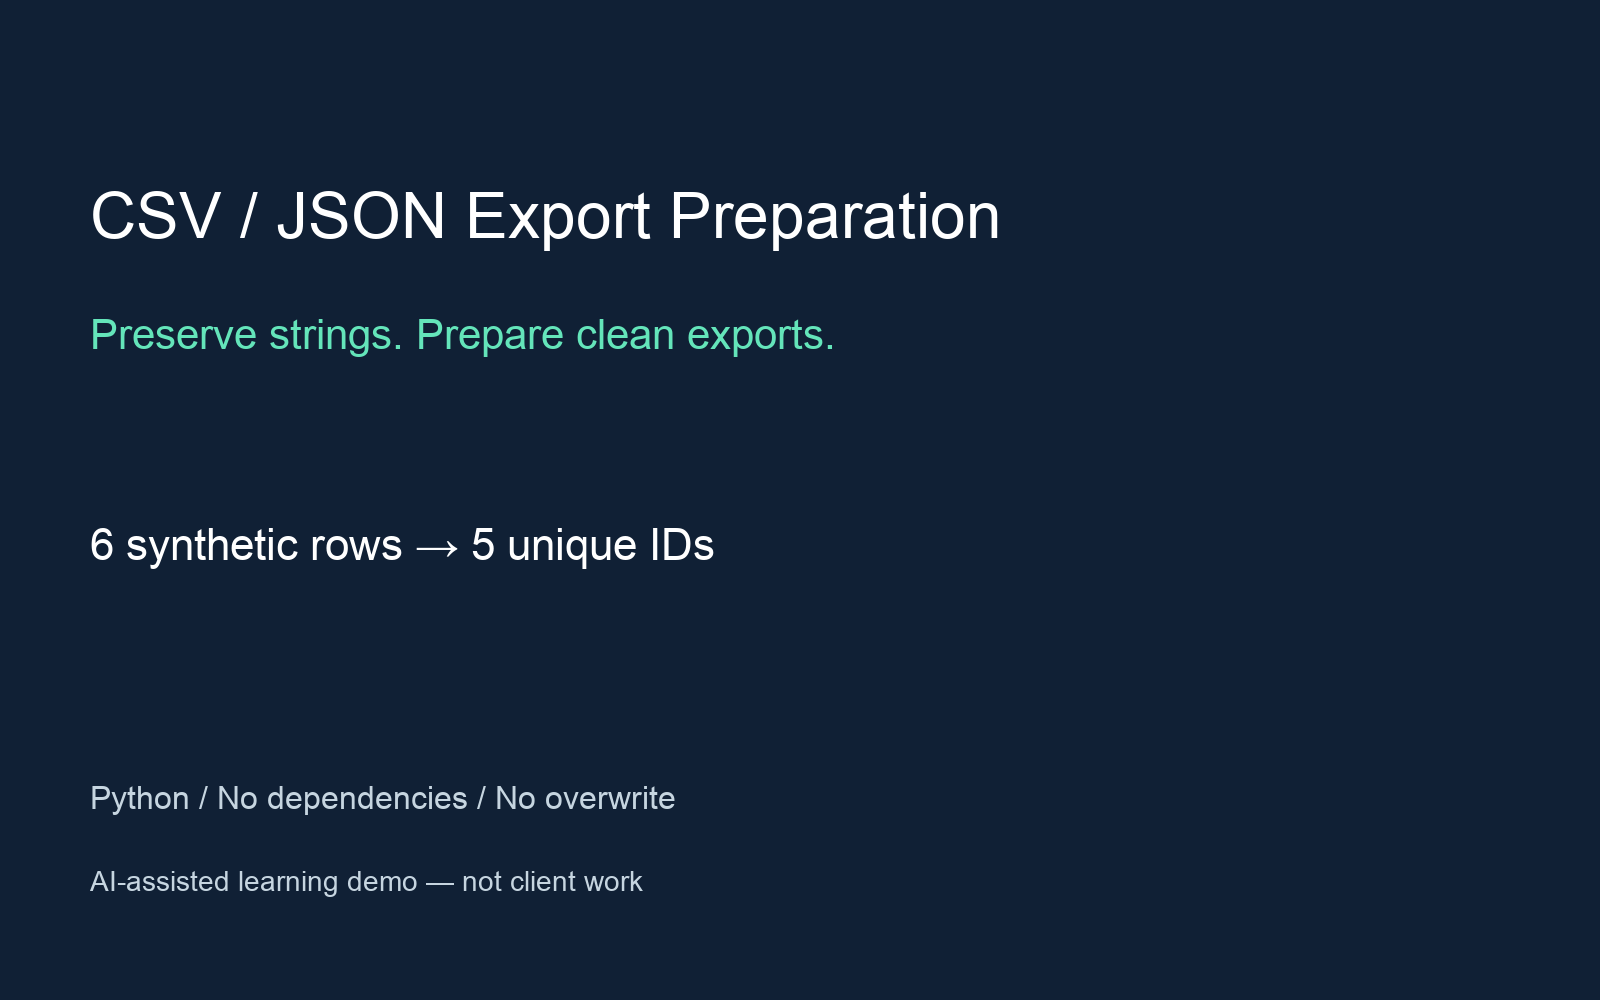
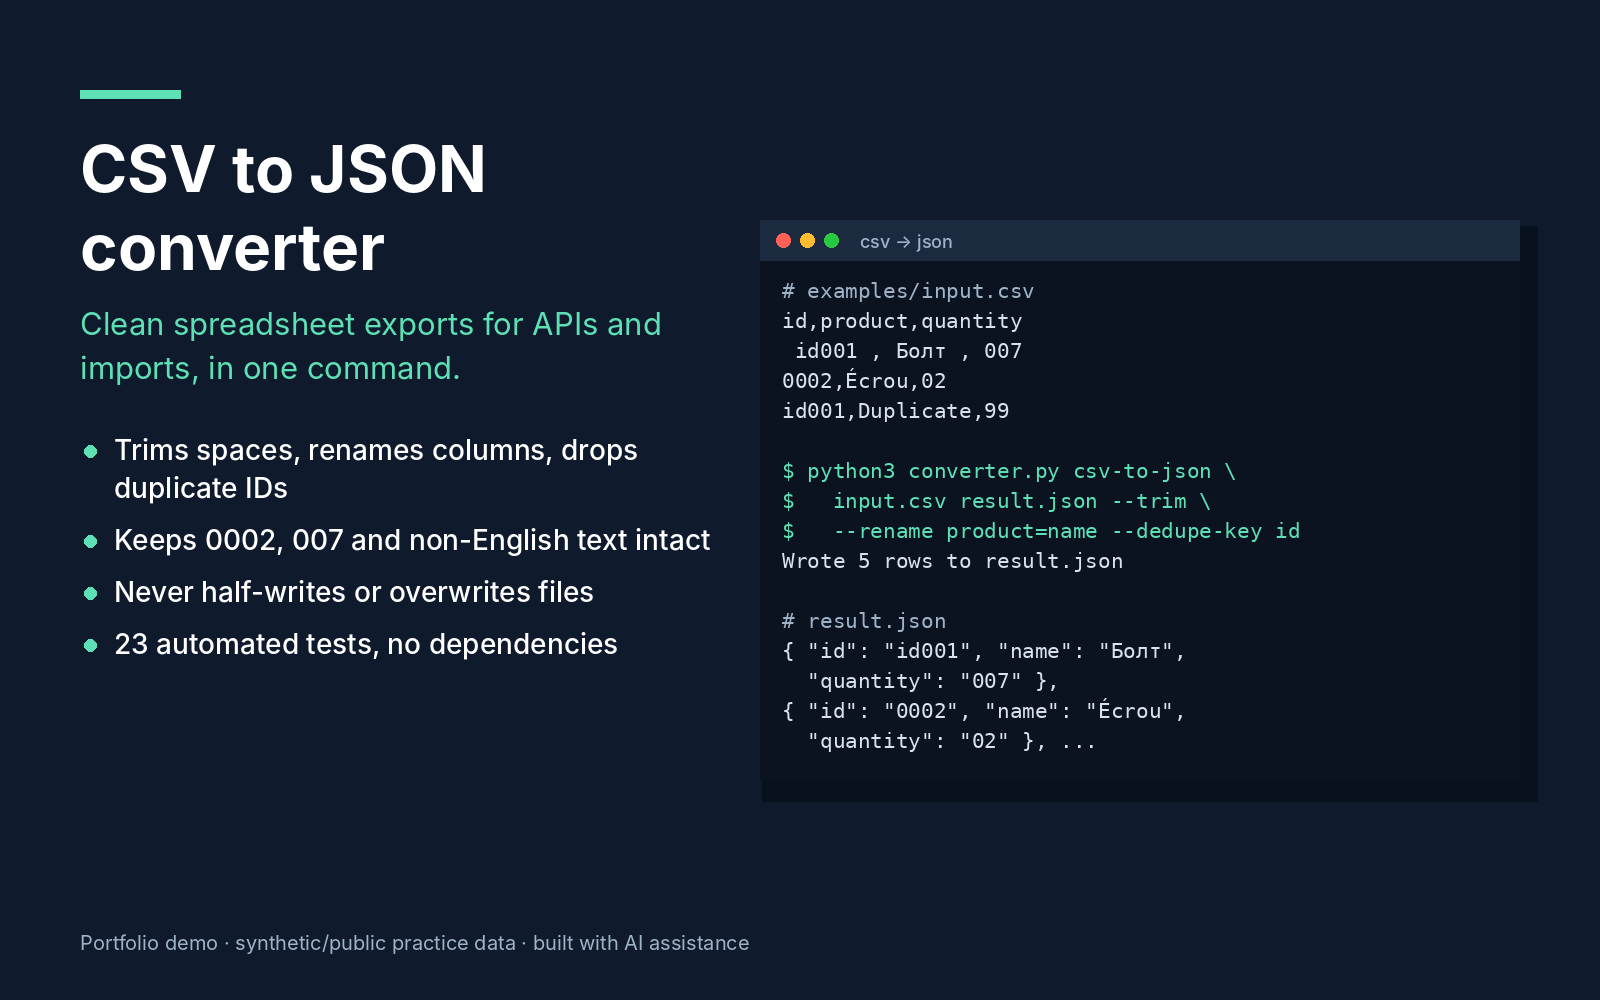
Client-first README and cover: example up front, technical rules kept in a details block
Claude-Session: https://claude.ai/code/session_01RBh2FWbAKLhXtWCpcTRA3a

diff --git a/README.md b/README.md
@@ -1,19 +1,55 @@
-![Project cover](cover.png)
+![CSV ⇄ JSON converter](cover.png)
 
-# CSV ↔ flat JSON — learning demo
+# CSV ⇄ JSON converter for clean data exports
 
+Turns a messy spreadsheet export into clean JSON for an API or another tool — and back to CSV. In one command it trims stray spaces, renames columns and drops duplicate IDs **without** breaking leading zeros (`0002`), quantities like `007` or non-English text.
 
+## Example
 
-An original learning demonstration for a future Python CSV/JSON service portfolio. Synthetic data, not a client case study. One CLI script using only Python's standard library. No dependencies, APIs, network, or accounts. Verified on Python 3.12; other versions have not been separately tested.
+`examples/input.csv` — six messy rows (spaces around values, a duplicate ID, Cyrillic and French text):
 
-Run from the project directory, choosing unused output filenames:
+```csv
+id,product,quantity
+ id001 , Болт , 007 
+0002,Écrou,02
+0003,  ,0
+0004,"Nut, steel",12
+0005,Шайба,003
+id001,Duplicate ignored,99
+```
 
 ```sh
 python3 converter.py csv-to-json examples/input.csv result.json --trim --rename product=name --dedupe-key id
-python3 converter.py json-to-csv result.json result.csv
-python3 -m unittest discover -v
 ```
- `examples/expected.json` and `examples/expected.csv` are ready-made results. With `--trim`, six source rows become five unique IDs. IDs (including `id001` and `0002`), Cyrillic, `Écrou`, an empty product name, and leading-zero quantities remain strings.
+
+`result.json` — five clean records, IDs and quantities kept exactly as text:
+
+```json
+[
+  { "id": "id001", "name": "Болт", "quantity": "007" },
+  { "id": "0002", "name": "Écrou", "quantity": "02" },
+  { "id": "0003", "name": "", "quantity": "0" },
+  { "id": "0004", "name": "Nut, steel", "quantity": "12" },
+  { "id": "0005", "name": "Шайба", "quantity": "003" }
+]
+```
+
+And back: `python3 converter.py json-to-csv result.json result.csv` (see `examples/expected.csv`).
+
+## Why it is safe to use on real exports
+
+- **Nothing is guessed:** every value stays text, so `0002` never becomes `2` and `007` never becomes `7`.
+- **Explicit options only:** trimming, renaming and de-duplication happen only when you ask for them.
+- **Fails loudly, never half-way:** malformed rows, duplicate columns or a file over 1 MiB stop with a clear `error:` message before anything is written; an existing output file is never overwritten.
+- **No dependencies:** Python 3 standard library only.
+- **23 automated tests**, including failure injection (disk errors, competing writers). Run them with `python3 -m unittest discover -v`.
+
+## Need something like this?
+
+The same approach fits recurring jobs such as cleaning CRM or e-commerce exports, preparing data for an API import, or merging several CSV files into one consistent format.
+
+<details>
+<summary>Detailed rules and limits (for developers)</summary>
 
 Rules, in both directions:
 
@@ -41,10 +77,7 @@ The contract assumes trusted, stable parent directories and an input that nobody
 
 Tests inject failures at filesystem-operation boundaries; they do not physically fill a disk or cut power. Two actual competing processes are also tested. The current full run is `evidence/current-tests.txt`.
 
-## Portfolio disclosure
+</details>
 
-AI-assisted learning demo with synthetic data. Not a client engagement. The converter implementation and tests are preserved from the original local learning demo. Current verification is in evidence/current-tests.txt.
-
-## Repository status
-
-Public learning portfolio project with synthetic fixtures. AI-assisted development. No private client data, live credentials or production state are included. No client outcomes or revenue claims. Tests are local checks, not proof of live service integration.
+---
+Portfolio demo with synthetic data, built with AI assistance. Test evidence: `evidence/current-tests.txt`.
